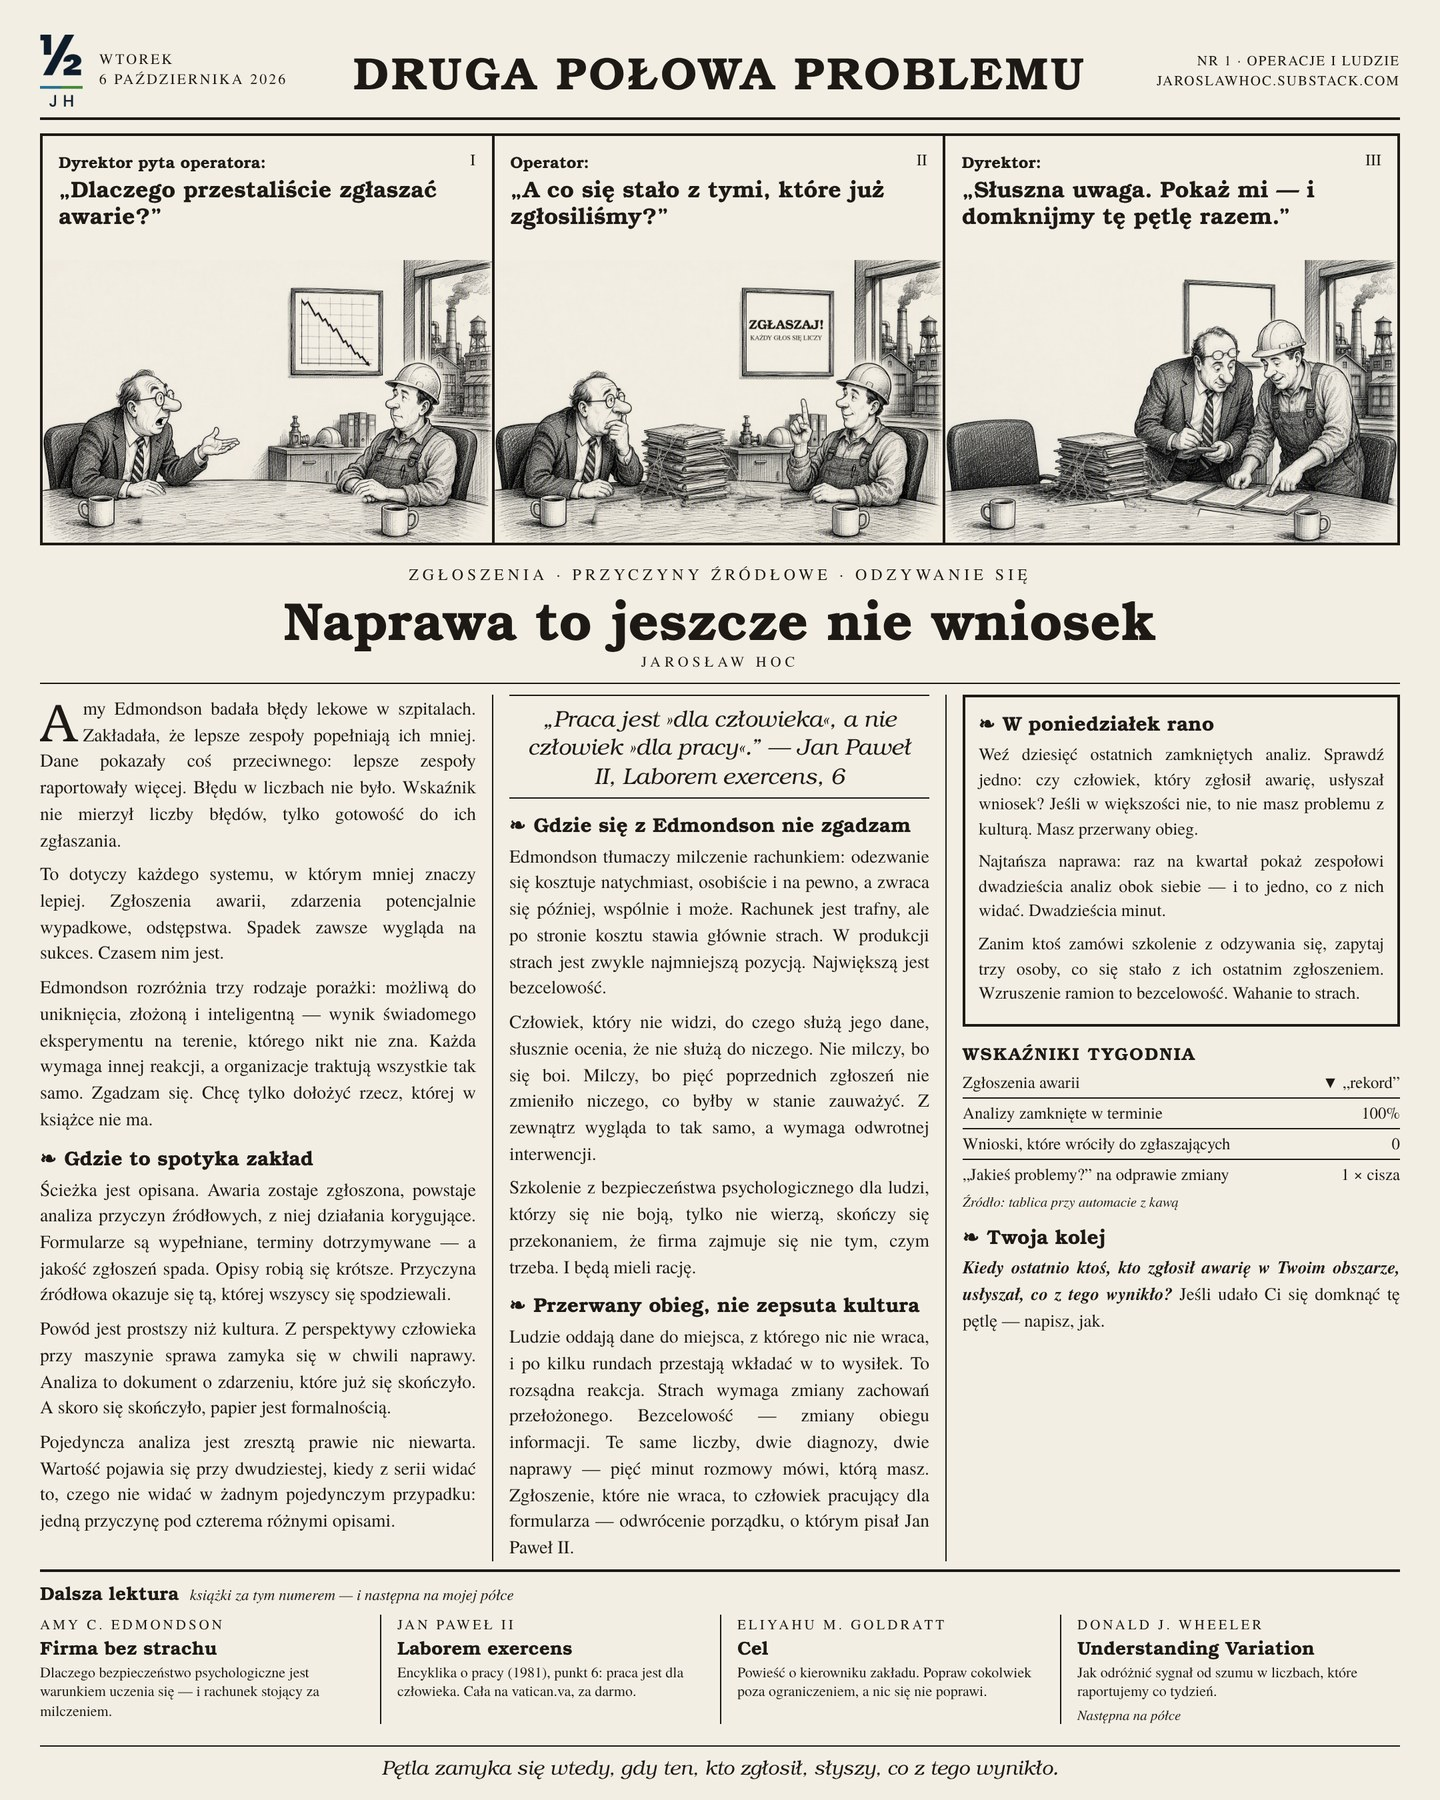
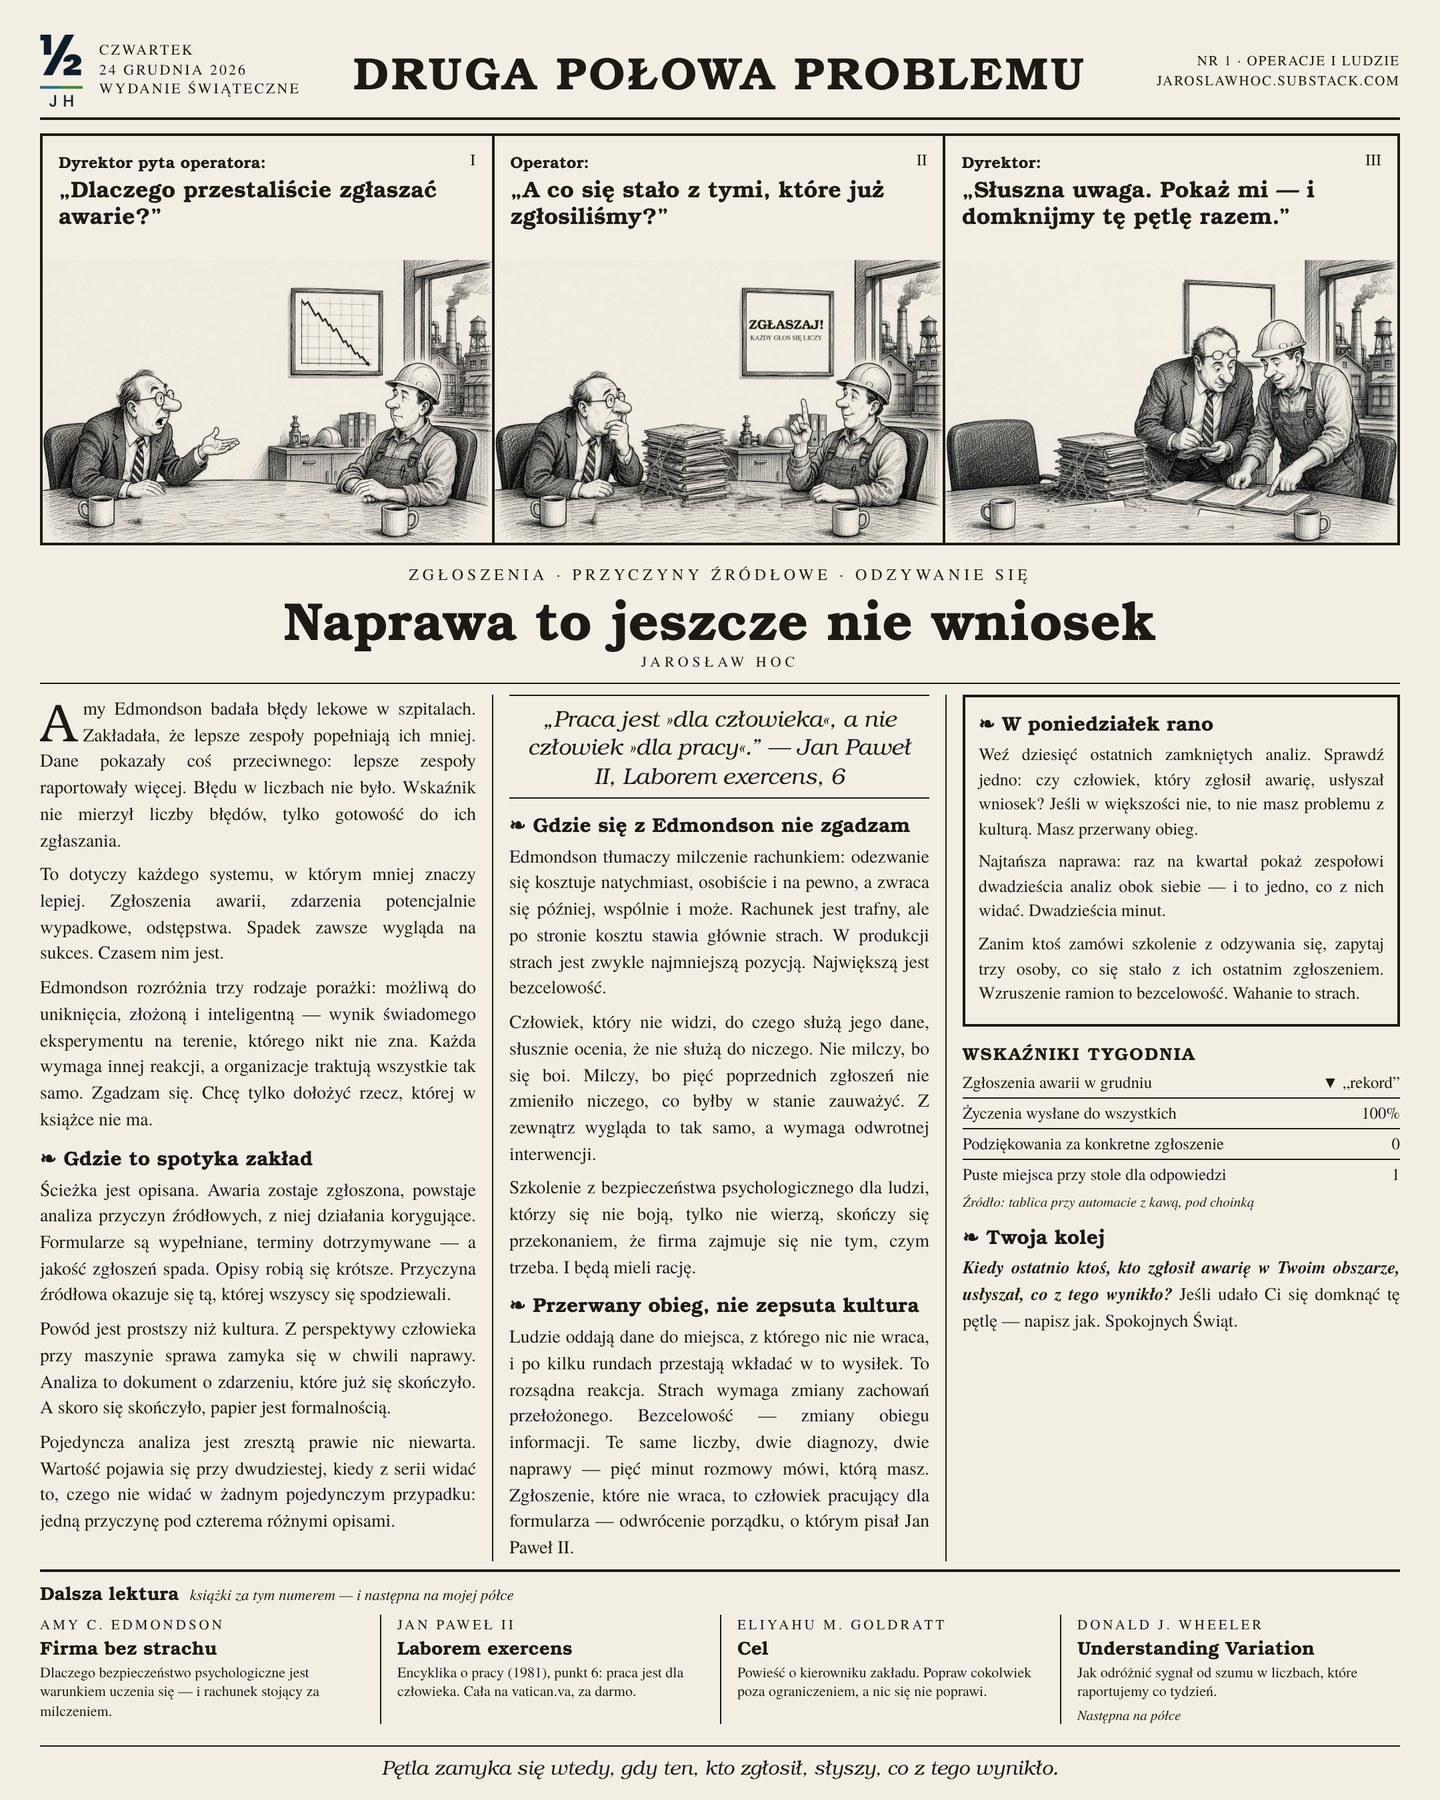
Nr 1: wydanie świąteczne 24.12.2026 — nowa gazeta, daty na zasłonie i stronach
Claude-Session: https://claude.ai/code/session_01Qv8pB2fh9mTqVF6cXcYZ9Y

diff --git a/podglad-7f3k-start.html b/podglad-7f3k-start.html
@@ -24,7 +24,7 @@
 <nav class="menu"><a href="podglad-7f3k-start" class="on">Teksty</a><a href="podglad-7f3k-numery" class="">Numery</a><a href="podglad-7f3k-o-mnie" class="">O mnie</a><a href="podglad-7f3k-en" class="lang" lang="en">EN</a></nav>
 </div></header>
 <main class="wrap">
-<section class="hero"><h1>Techniczne rozwiązania zawodzą z powodów, które nie są techniczne.</h1><p>Piszę o tej drugiej połowie: o systemie pomiaru, o tym, gdzie naprawdę stoi ograniczenie, i o tym, co opłaca się ludziom, którzy mają rozwiązanie uruchomić.</p><p class="who">Jarosław Hoc · blisko 30 lat w produkcji ciągłej · Grupa Żywiec (HEINEKEN)</p></section><section class="latest"><a class="paper" href="gazeta-nr1-pl.jpg"><img src="gazeta-nr1-pl.jpg" alt="Naprawa to jeszcze nie wniosek"></a><div><p class="nr">Nr 1 · 6.10.2026</p><h3>Naprawa to jeszcze nie wniosek</h3><p class="lead">Spadek liczby zgłoszeń awarii zawsze wygląda na sukces. Czasem nim jest. Częściej ludzie przestali wierzyć, że zgłoszenie do czegoś prowadzi. Lektura: Amy Edmondson, „Firma bez strachu”.</p><div class="mon"><b>W poniedziałek rano</b><ol><li>Weź dziesięć ostatnich zamkniętych analiz. Sprawdź jedno: czy zgłaszający usłyszał wniosek.</li><li>Raz na kwartał pokaż zespołowi dwadzieścia analiz obok siebie. Dwadzieścia minut.</li><li>Zanim zamówisz szkolenie z kultury błędu, zapytaj trzy osoby, co się stało z ich ostatnim zgłoszeniem.</li></ol></div><a class="cta" href="https://jaroslawhoc.substack.com">Czytaj na Substacku</a><a class="more" href="podglad-7f3k-numery">Wszystkie numery →</a></div></section><section class="subscribe"><div><h4>Jeden tekst co dwa tygodnie. W poniedziałek rano.</h4><p>Lektura, mechanizm z zakładu i jedna rzecz do zrobienia. Po polsku i po angielsku. Bez spamu, można się wypisać jednym kliknięciem.</p></div><iframe src="https://jaroslawhoc.substack.com/embed" scrolling="no" title="Substack"></iframe></section><h2>Teksty</h2><div class="empty">Pierwszy tekst ukazuje się w październiku 2026. Teksty publikuję na Substacku, tu będzie ich lista.</div>
+<section class="hero"><h1>Techniczne rozwiązania zawodzą z powodów, które nie są techniczne.</h1><p>Piszę o tej drugiej połowie: o systemie pomiaru, o tym, gdzie naprawdę stoi ograniczenie, i o tym, co opłaca się ludziom, którzy mają rozwiązanie uruchomić.</p><p class="who">Jarosław Hoc · blisko 30 lat w produkcji ciągłej · Grupa Żywiec (HEINEKEN)</p></section><section class="latest"><a class="paper" href="gazeta-nr1-pl.jpg"><img src="gazeta-nr1-pl.jpg" alt="Naprawa to jeszcze nie wniosek"></a><div><p class="nr">Nr 1 · 24.12.2026 · wydanie świąteczne</p><h3>Naprawa to jeszcze nie wniosek</h3><p class="lead">Spadek liczby zgłoszeń awarii zawsze wygląda na sukces. Czasem nim jest. Częściej ludzie przestali wierzyć, że zgłoszenie do czegoś prowadzi. Lektura: Amy Edmondson, „Firma bez strachu”.</p><div class="mon"><b>W poniedziałek rano</b><ol><li>Weź dziesięć ostatnich zamkniętych analiz. Sprawdź jedno: czy zgłaszający usłyszał wniosek.</li><li>Raz na kwartał pokaż zespołowi dwadzieścia analiz obok siebie. Dwadzieścia minut.</li><li>Zanim zamówisz szkolenie z kultury błędu, zapytaj trzy osoby, co się stało z ich ostatnim zgłoszeniem.</li></ol></div><a class="cta" href="https://jaroslawhoc.substack.com">Czytaj na Substacku</a><a class="more" href="podglad-7f3k-numery">Wszystkie numery →</a></div></section><section class="subscribe"><div><h4>Jeden tekst w miesiącu.</h4><p>Lektura, mechanizm z zakładu i jedna rzecz do zrobienia. Po polsku i po angielsku. Bez spamu, można się wypisać jednym kliknięciem.</p></div><iframe src="https://jaroslawhoc.substack.com/embed" scrolling="no" title="Substack"></iframe></section><h2>Teksty</h2><div class="empty">Pierwszy tekst ukazuje się 24 grudnia 2026. Teksty publikuję na Substacku, tu będzie ich lista.</div>
 </main>
 <footer class="wrap">
 <span>© 2026 Jarosław Hoc · Druga połowa problemu</span>

diff --git a/podglad-7f3k-en.html b/podglad-7f3k-en.html
@@ -24,7 +24,7 @@
 <nav class="menu"><a href="podglad-7f3k-en" class="on">Writing</a><a href="podglad-7f3k-issues" class="">Issues</a><a href="podglad-7f3k-about" class="">About</a><a href="podglad-7f3k-start" class="lang" lang="pl">PL</a></nav>
 </div></header>
 <main class="wrap">
-<section class="hero"><h1>Technical solutions fail for reasons that are not technical.</h1><p>I write about the other half: the measurement system, where the constraint actually sits, and what pays off for the people expected to run the solution.</p><p class="who">Jarosław Hoc · nearly 30 years in continuous process manufacturing · Grupa Żywiec (HEINEKEN)</p></section><section class="latest"><a class="paper" href="gazeta-nr1-en.jpg"><img src="gazeta-nr1-en.jpg" alt="Fixing it is not the same as learning from it"></a><div><p class="nr">No. 1 · 6 October 2026</p><h3>Fixing it is not the same as learning from it</h3><p class="lead">Fewer breakdown reports looks like good news. Sometimes it is. More often, people have stopped believing a report leads anywhere. Reading: Amy Edmondson, The Fearless Organization.</p><div class="mon"><b>Monday morning</b><ol><li>Take your last ten closed analyses. Check one thing: did the reporter hear the conclusion?</li><li>Once a quarter, show the team twenty analyses side by side. Twenty minutes.</li><li>Before anyone books a workshop on speaking up, ask three people what happened to their last report.</li></ol></div><a class="cta" href="https://jaroslawhoc.substack.com">Read on Substack</a><a class="more" href="podglad-7f3k-issues">All issues →</a></div></section><section class="subscribe"><div><h4>One piece every two weeks. Monday morning.</h4><p>A book, a mechanism from the plant floor and one thing to do. In Polish and English. No spam, unsubscribe in one click.</p></div><iframe src="https://jaroslawhoc.substack.com/embed" scrolling="no" title="Substack"></iframe></section><h2>Writing</h2><div class="empty">The first piece comes out in October 2026. I publish on Substack; the list will live here.</div>
+<section class="hero"><h1>Technical solutions fail for reasons that are not technical.</h1><p>I write about the other half: the measurement system, where the constraint actually sits, and what pays off for the people expected to run the solution.</p><p class="who">Jarosław Hoc · nearly 30 years in continuous process manufacturing · Grupa Żywiec (HEINEKEN)</p></section><section class="latest"><a class="paper" href="gazeta-nr1-en.jpg"><img src="gazeta-nr1-en.jpg" alt="Fixing it is not the same as learning from it"></a><div><p class="nr">No. 1 · 24 December 2026 · Christmas edition</p><h3>Fixing it is not the same as learning from it</h3><p class="lead">Fewer breakdown reports looks like good news. Sometimes it is. More often, people have stopped believing a report leads anywhere. Reading: Amy Edmondson, The Fearless Organization.</p><div class="mon"><b>Monday morning</b><ol><li>Take your last ten closed analyses. Check one thing: did the reporter hear the conclusion?</li><li>Once a quarter, show the team twenty analyses side by side. Twenty minutes.</li><li>Before anyone books a workshop on speaking up, ask three people what happened to their last report.</li></ol></div><a class="cta" href="https://jaroslawhoc.substack.com">Read on Substack</a><a class="more" href="podglad-7f3k-issues">All issues →</a></div></section><section class="subscribe"><div><h4>One piece a month.</h4><p>A book, a mechanism from the plant floor and one thing to do. In Polish and English. No spam, unsubscribe in one click.</p></div><iframe src="https://jaroslawhoc.substack.com/embed" scrolling="no" title="Substack"></iframe></section><h2>Writing</h2><div class="empty">The first piece comes out on 24 December 2026. I publish on Substack; the list will live here.</div>
 </main>
 <footer class="wrap">
 <span>© 2026 Jarosław Hoc · The Other Half of the Problem</span>

diff --git a/podglad-7f3k-plan.html b/podglad-7f3k-plan.html
@@ -24,7 +24,7 @@
 <nav class="menu"><a href="podglad-7f3k-start" class="">Teksty</a><a href="podglad-7f3k-numery" class="on">Numery</a><a href="podglad-7f3k-o-mnie" class="">O mnie</a><a href="podglad-7f3k-issues" class="lang" lang="en">EN</a></nav>
 </div></header>
 <main class="wrap">
-<h2>Numery</h2><p class="lead">Każdy tekst ma swoją stronę gazety: rysunek, skrót i jedna rzecz do zrobienia w poniedziałek rano. Kliknij, żeby powiększyć.</p><div class="issues"><figure class="issue"><a href="gazeta-nr2-pl.jpg"><img src="gazeta-nr2-pl.jpg" alt="Oszczędność jest prawdziwa. Tylko nie o nią chodziło" loading="lazy"></a><figcaption><b>Nr 2</b> · 3.11.2026 · <em>w przygotowaniu</em><br>Oszczędność jest prawdziwa. Tylko nie o nią chodziło</figcaption></figure><figure class="issue"><a href="gazeta-nr3-pl.jpg"><img src="gazeta-nr3-pl.jpg" alt="Szczegół jako argument" loading="lazy"></a><figcaption><b>Nr 3</b> · 1.12.2026 · <em>w przygotowaniu</em><br>Szczegół jako argument</figcaption></figure><figure class="issue"><a href="gazeta-nr4-pl.jpg"><img src="gazeta-nr4-pl.jpg" alt="Pytania przed pierwszym problemem" loading="lazy"></a><figcaption><b>Nr 4</b> · 5.01.2027 · <em>w przygotowaniu</em><br>Pytania przed pierwszym problemem</figcaption></figure></div>
+<h2>Numery</h2><p class="lead">Każdy tekst ma swoją stronę gazety: rysunek, skrót i jedna rzecz do zrobienia w poniedziałek rano. Kliknij, żeby powiększyć.</p><div class="issues"><figure class="issue"><a href="gazeta-nr2-pl.jpg"><img src="gazeta-nr2-pl.jpg" alt="Oszczędność jest prawdziwa. Tylko nie o nią chodziło" loading="lazy"></a><figcaption><b>Nr 2</b> · <em>w przygotowaniu</em><br>Oszczędność jest prawdziwa. Tylko nie o nią chodziło</figcaption></figure><figure class="issue"><a href="gazeta-nr3-pl.jpg"><img src="gazeta-nr3-pl.jpg" alt="Szczegół jako argument" loading="lazy"></a><figcaption><b>Nr 3</b> · <em>w przygotowaniu</em><br>Szczegół jako argument</figcaption></figure><figure class="issue"><a href="gazeta-nr4-pl.jpg"><img src="gazeta-nr4-pl.jpg" alt="Pytania przed pierwszym problemem" loading="lazy"></a><figcaption><b>Nr 4</b> · <em>w przygotowaniu</em><br>Pytania przed pierwszym problemem</figcaption></figure></div>
 </main>
 <footer class="wrap">
 <span>© 2026 Jarosław Hoc · Druga połowa problemu</span>

diff --git a/podglad-7f3k-plan-en.html b/podglad-7f3k-plan-en.html
@@ -24,7 +24,7 @@
 <nav class="menu"><a href="podglad-7f3k-en" class="">Writing</a><a href="podglad-7f3k-issues" class="on">Issues</a><a href="podglad-7f3k-about" class="">About</a><a href="podglad-7f3k-numery" class="lang" lang="pl">PL</a></nav>
 </div></header>
 <main class="wrap">
-<h2>Issues</h2><p class="lead">Every piece gets its own newspaper page: a drawing, a digest and one thing to do on Monday morning. Click to enlarge.</p><div class="issues"><figure class="issue"><a href="gazeta-nr2-en.jpg"><img src="gazeta-nr2-en.jpg" alt="The savings are real. They just weren’t the point" loading="lazy"></a><figcaption><b>No. 2</b> · 3 November 2026 · <em>in preparation</em><br>The savings are real. They just weren’t the point</figcaption></figure><figure class="issue"><a href="gazeta-nr3-en.jpg"><img src="gazeta-nr3-en.jpg" alt="The detail is the argument" loading="lazy"></a><figcaption><b>No. 3</b> · 1 December 2026 · <em>in preparation</em><br>The detail is the argument</figcaption></figure><figure class="issue"><a href="gazeta-nr4-en.jpg"><img src="gazeta-nr4-en.jpg" alt="Questions before the first problem" loading="lazy"></a><figcaption><b>No. 4</b> · 5 January 2027 · <em>in preparation</em><br>Questions before the first problem</figcaption></figure></div>
+<h2>Issues</h2><p class="lead">Every piece gets its own newspaper page: a drawing, a digest and one thing to do on Monday morning. Click to enlarge.</p><div class="issues"><figure class="issue"><a href="gazeta-nr2-en.jpg"><img src="gazeta-nr2-en.jpg" alt="The savings are real. They just weren’t the point" loading="lazy"></a><figcaption><b>No. 2</b> · <em>in preparation</em><br>The savings are real. They just weren’t the point</figcaption></figure><figure class="issue"><a href="gazeta-nr3-en.jpg"><img src="gazeta-nr3-en.jpg" alt="The detail is the argument" loading="lazy"></a><figcaption><b>No. 3</b> · <em>in preparation</em><br>The detail is the argument</figcaption></figure><figure class="issue"><a href="gazeta-nr4-en.jpg"><img src="gazeta-nr4-en.jpg" alt="Questions before the first problem" loading="lazy"></a><figcaption><b>No. 4</b> · <em>in preparation</em><br>Questions before the first problem</figcaption></figure></div>
 </main>
 <footer class="wrap">
 <span>© 2026 Jarosław Hoc · The Other Half of the Problem</span>

diff --git a/logo-strona.html b/logo-strona.html
@@ -20,6 +20,6 @@ body{margin:0;background:#fff;min-height:100vh;display:flex;flex-direction:colum
 <a class="logo" href="podglad-7f3k-start"><img src="logo-white.png" alt="½ JH"></a>
 <a class="n" href="podglad-7f3k-start">½ · Druga połowa problemu</a>
 <div class="s">Jarosław Hoc</div>
-<div class="row"><a class="c off" href="gazeta-nr1-pl.jpg" title="Naprawa to jeszcze nie wniosek"><img src="gazeta-nr1-pl.jpg" alt=""><span>Nr 1<br><small>6.10</small></span></a><a class="c off" href="gazeta-nr2-pl.jpg" title="Oszczędność jest prawdziwa. Tylko nie o nią chodziło"><img src="gazeta-nr2-pl.jpg" alt=""><span>Nr 2<br><small>3.11</small></span></a><a class="c off" href="gazeta-nr3-pl.jpg" title="Szczegół jako argument"><img src="gazeta-nr3-pl.jpg" alt=""><span>Nr 3<br><small>1.12</small></span></a><a class="c off" href="gazeta-nr4-pl.jpg" title="Pytania przed pierwszym problemem"><img src="gazeta-nr4-pl.jpg" alt=""><span>Nr 4<br><small>5.01</small></span></a></div>
+<div class="row"><a class="c off" href="gazeta-nr1-pl.jpg" title="Naprawa to jeszcze nie wniosek"><img src="gazeta-nr1-pl.jpg" alt=""><span>Nr 1<br><small>24.12</small></span></a><a class="c off" href="gazeta-nr2-pl.jpg" title="Oszczędność jest prawdziwa. Tylko nie o nią chodziło"><img src="gazeta-nr2-pl.jpg" alt=""><span>Nr 2<br><small>wkrótce</small></span></a><a class="c off" href="gazeta-nr3-pl.jpg" title="Szczegół jako argument"><img src="gazeta-nr3-pl.jpg" alt=""><span>Nr 3<br><small>wkrótce</small></span></a><a class="c off" href="gazeta-nr4-pl.jpg" title="Pytania przed pierwszym problemem"><img src="gazeta-nr4-pl.jpg" alt=""><span>Nr 4<br><small>wkrótce</small></span></a></div>
 <div class="hint">numery aktywują się w dniu publikacji</div>
 </body></html>

diff --git a/podglad-7f3k-issues.html b/podglad-7f3k-issues.html
@@ -24,7 +24,7 @@
 <nav class="menu"><a href="podglad-7f3k-en" class="">Writing</a><a href="podglad-7f3k-issues" class="on">Issues</a><a href="podglad-7f3k-about" class="">About</a><a href="podglad-7f3k-numery" class="lang" lang="pl">PL</a></nav>
 </div></header>
 <main class="wrap">
-<h2>Issues</h2><p class="lead">Every piece gets its own newspaper page: a drawing, a digest and one thing to do on Monday morning. Click to enlarge.</p><div class="issues"><figure class="issue"><a href="gazeta-nr1-en.jpg"><img src="gazeta-nr1-en.jpg" alt="Fixing it is not the same as learning from it" loading="lazy"></a><figcaption><b>No. 1</b> · 6 October 2026<br>Fixing it is not the same as learning from it</figcaption></figure></div>
+<h2>Issues</h2><p class="lead">Every piece gets its own newspaper page: a drawing, a digest and one thing to do on Monday morning. Click to enlarge.</p><div class="issues"><figure class="issue"><a href="gazeta-nr1-en.jpg"><img src="gazeta-nr1-en.jpg" alt="Fixing it is not the same as learning from it" loading="lazy"></a><figcaption><b>No. 1</b> · 24 December 2026 · Christmas edition<br>Fixing it is not the same as learning from it</figcaption></figure></div>
 </main>
 <footer class="wrap">
 <span>© 2026 Jarosław Hoc · The Other Half of the Problem</span>

diff --git a/podglad-7f3k-numery.html b/podglad-7f3k-numery.html
@@ -24,7 +24,7 @@
 <nav class="menu"><a href="podglad-7f3k-start" class="">Teksty</a><a href="podglad-7f3k-numery" class="on">Numery</a><a href="podglad-7f3k-o-mnie" class="">O mnie</a><a href="podglad-7f3k-issues" class="lang" lang="en">EN</a></nav>
 </div></header>
 <main class="wrap">
-<h2>Numery</h2><p class="lead">Każdy tekst ma swoją stronę gazety: rysunek, skrót i jedna rzecz do zrobienia w poniedziałek rano. Kliknij, żeby powiększyć.</p><div class="issues"><figure class="issue"><a href="gazeta-nr1-pl.jpg"><img src="gazeta-nr1-pl.jpg" alt="Naprawa to jeszcze nie wniosek" loading="lazy"></a><figcaption><b>Nr 1</b> · 6.10.2026<br>Naprawa to jeszcze nie wniosek</figcaption></figure></div>
+<h2>Numery</h2><p class="lead">Każdy tekst ma swoją stronę gazety: rysunek, skrót i jedna rzecz do zrobienia w poniedziałek rano. Kliknij, żeby powiększyć.</p><div class="issues"><figure class="issue"><a href="gazeta-nr1-pl.jpg"><img src="gazeta-nr1-pl.jpg" alt="Naprawa to jeszcze nie wniosek" loading="lazy"></a><figcaption><b>Nr 1</b> · 24.12.2026 · wydanie świąteczne<br>Naprawa to jeszcze nie wniosek</figcaption></figure></div>
 </main>
 <footer class="wrap">
 <span>© 2026 Jarosław Hoc · Druga połowa problemu</span>

diff --git a/index.html b/index.html
@@ -8,5 +8,5 @@
 <p class="sub">Techniczne rozwiązania zawodzą z powodów, które nie są techniczne. Piszę o tej drugiej połowie.</p>
 <p class="en">The Other Half of the Problem — technical solutions fail for reasons that are not technical.</p>
 <a class="cta" href="https://jaroslawhoc.substack.com">Zapisz się na Substacku · Subscribe</a>
-<p class="who">Jarosław Hoc · blisko 30 lat w produkcji ciągłej · pierwsze teksty: październik 2026</p>
+<p class="who">Jarosław Hoc · blisko 30 lat w produkcji ciągłej · pierwszy tekst: 24 grudnia 2026</p>
 </section></main><footer class="wrap"><span>© 2026 Jarosław Hoc</span><span><a href="mailto:kontakt@jaroslawhoc.pl">kontakt@jaroslawhoc.pl</a></span></footer><script data-goatcounter="https://jaroslawhoc.goatcounter.com/count" async src="//gc.zgo.at/count.js"></script></body></html>
